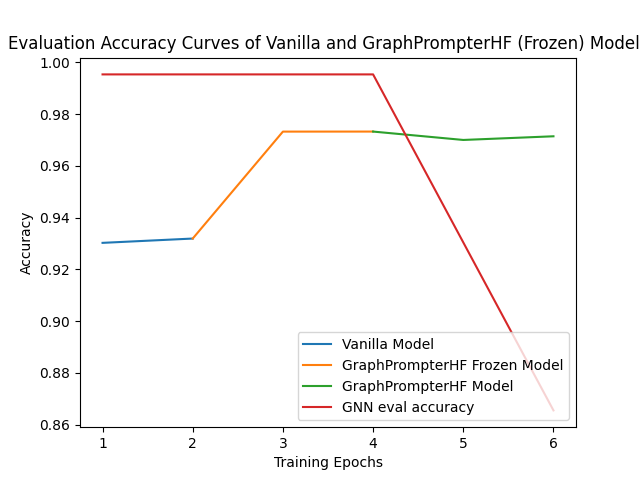
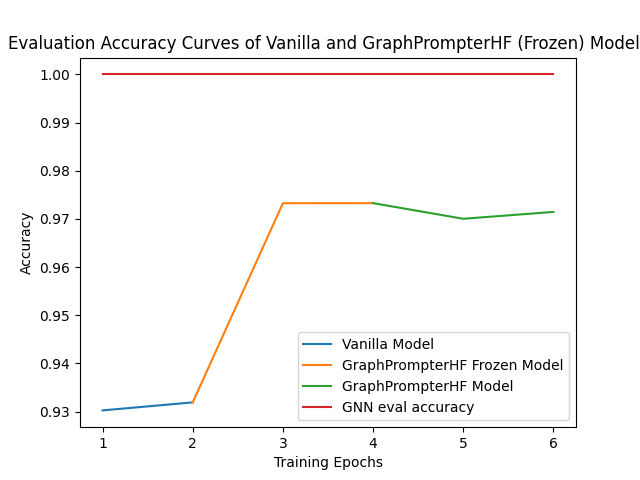
fixing gnn accuracy

diff --git a/graph_representation_generator/graph_representation_generator.py b/graph_representation_generator/graph_representation_generator.py
@@ -8,7 +8,7 @@ from torch_geometric.data import HeteroData
 import torch_geometric.transforms as T
 from torch_geometric.loader import LinkNeighborLoader
 import tqdm
-from sklearn.metrics import roc_auc_score
+from sklearn.metrics import roc_auc_score, accuracy_score, f1_score
 import pandas as pd
 import numpy as np
 
@@ -102,7 +102,7 @@ class GraphRepresentationGenerator:
         train_loader = LinkNeighborLoader(
             data=data,
             num_neighbors=[20, 10],
-            neg_sampling_ratio=2.0,
+            neg_sampling_ratio=1.0,
             edge_label_index=(("source", "edge", "target"), edge_label_index),
             edge_label=edge_label,
             batch_size=batch_size,
@@ -281,7 +281,6 @@ class GraphRepresentationGenerator:
             edge_label_index=(("source", "edge", "target"), edge_label_index),
             edge_label=edge_label,
             batch_size=batch_size,
-            shuffle=False,
         )
         preds = []
         ground_truths = []
@@ -293,13 +292,32 @@ class GraphRepresentationGenerator:
                     sampled_data["source", "edge", "target"].edge_label
                 )
 
-        pred = torch.cat(preds, dim=0).cpu().numpy()
+        pred_continues = torch.cat(preds, dim=0).cpu().numpy()
         ground_truth = torch.cat(ground_truths, dim=0).cpu().numpy()
-        auc = roc_auc_score(ground_truth, pred)
-        print()
-        print(f"Validation AUC: {auc:.4f}")
+        print(np.unique(ground_truth))
+
+        def pred_by_threshold(pred: np.ndarray, thresh: float) -> np.ndarray:
+            return (pred >= thresh).astype(float)
+
+        pred_discrete: List[np.ndarray] = []
+        for threshold_ in range(1, 10):
+            threshold = threshold_ / 10
+            pred_discrete.append(pred_by_threshold(ground_truth, threshold))
+        auc = roc_auc_score(ground_truth, pred_continues)
+        accs = [accuracy_score(ground_truth, pred) for pred in pred_discrete]
+        f1s = [f1_score(ground_truth, pred) for pred in pred_discrete]
+        max_acc = max(accs)
+        max_acc_thresold = 1 / (2 + accs.index(max_acc))
+        max_f1 = max(f1s)
+        max_f1_thresold = 1 / (2 + f1s.index(max_f1))
+        print(
+            f"Validation AUC: {auc:.4f}, Acc: {max_acc:.4f} with threshold {max_acc_thresold}, F1: {max_f1:.4f} with threshold {max_f1_thresold}"
+        )
         if target_path:
-            np.save(target_path, np.array(auc))
+            np.save(
+                target_path,
+                np.stack([np.array(auc), np.array(max_acc), np.array(max_f1)]),
+            )
 
     def save_model(self):
         torch.save(self.model.to(device="cpu").state_dict(), self.model_path)

diff --git a/explainability_module.py b/explainability_module.py
@@ -168,8 +168,8 @@ class ExplainabilityModule:
             graph_prompter_hf_frozen_training_process = json.load(f)
         with open(self.graph_prompter_hf_training_path, "r") as f:
             graph_prompter_hf_training_process = json.load(f)
-        gnn_frozen_accuracy = np.load("./data/gnn/gnn_frozen_val.npy").item()
-        gnn_accuracy = np.load("./data/gnn/gnn_val.npy").item()
+        gnn_frozen_accuracy = np.load("./data/gnn/gnn_frozen_val.npy")[1].item()
+        gnn_accuracy = np.load("./data/gnn/gnn_val.npy")[1].item()
         # Extract the loss values
         vanilla_eval_accuracy = [
             entry["eval_accuracy"]
@@ -563,7 +563,7 @@ class ExplainabilityModule:
                     labels[from_name] = token_type_dict[from_]
                 G.add_node(from_name, name=from_name, layer=layer)
                 for to_, weight in enumerate(inner):
-                    to_name = f"{token_type_dict[to_]}_{layer+1}"
+                    to_name = f"{token_type_dict[to_]}_{layer + 1}"
                     G.add_node(to_name, name=to_name, layer=layer + 1)
                     G.add_edge(from_name, to_name, weight=weight)
 

diff --git a/dataset_manager/kg_manager.py b/dataset_manager/kg_manager.py
@@ -180,7 +180,7 @@ class KGManger(ABC):
             Note that we also need to specify the reverse edge type `("movie", "rev_rates", "user")`.
             This allows the `RandomLinkSplit` transform to drop reverse edges accordingly to not leak any information into the training phase.
         Additional:
-            We are expecting for this method the constants the plits of the dataset to be present and
+            We are expecting for this method the constants the splits of the dataset to be present and
             to be defined as valid paths for large torch tensors.
         """
         # For this, we first split the set of edges into
